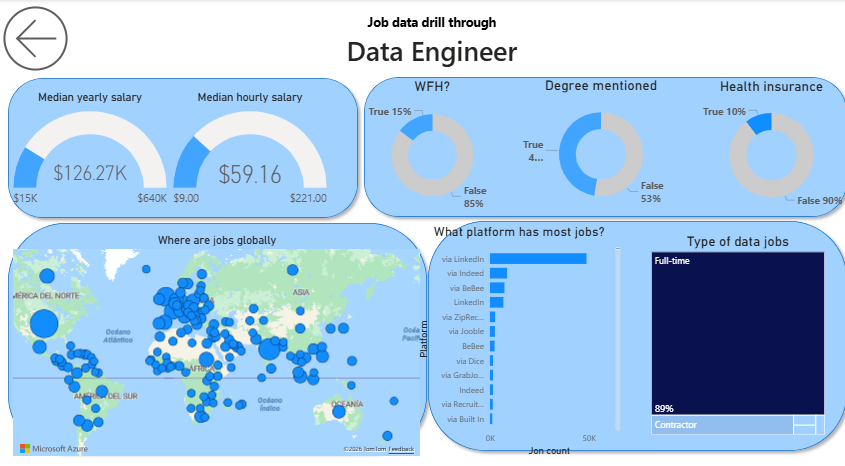
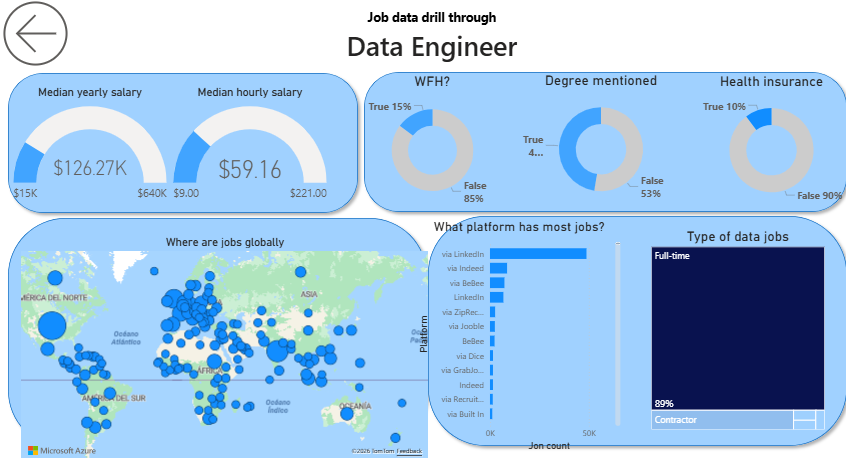
second commit

Changed region(s): [[0.0, 0.0, 1.0, 0.9914], [0.4308, 0.03, 0.5846, 0.0601]]

diff --git a/README.md b/README.md
@@ -34,4 +34,23 @@ Interactive Power BI dashboard providing an overview of the data job market. It 
 
 It also includes salary comparisons across different job titles and a detailed table to explore job demand and compensation.
 
+**Key Insights**
+
+- Job Market: Approximately 479K job postings were analyzed.
+
+- Salary Overview: The overall median yearly salary is $113K, with a median hourly salary of $47.62.
+
+- Salary by Role: Senior Data Scientists have the highest median yearly salary at approximately $156K, followed by Machine Learning Engineers at $155K.
+
+- Job Demand: Data Analysts and Data Engineers account for a significant number of job postings.
+
+- Monthly Trends: Job postings fluctuate throughout the year, reaching their highest point in February (55K) and their lowest in November (14K).
+
 ![Dashboard Page 2](images\drill_through.png)
+
+Detailed drill-through dashboard focused on individual data-related job titles. It provides insights into salary distributions, remote work availability, degree requirements, and health insurance benefits.
+
+The dashboard also explores the global distribution of job postings, recruitment platforms, and employment types.
+
+Tools: Power BI, Data Analysis, Data Visualization.
+
